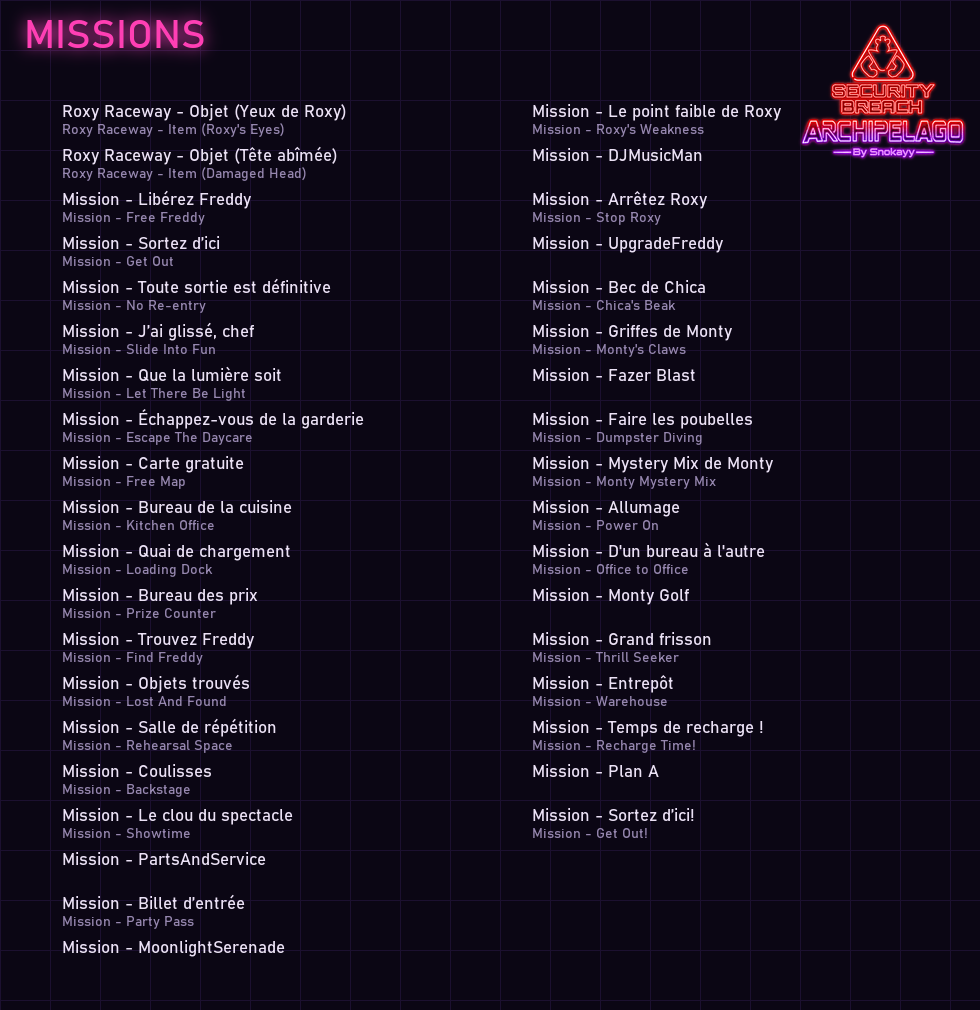
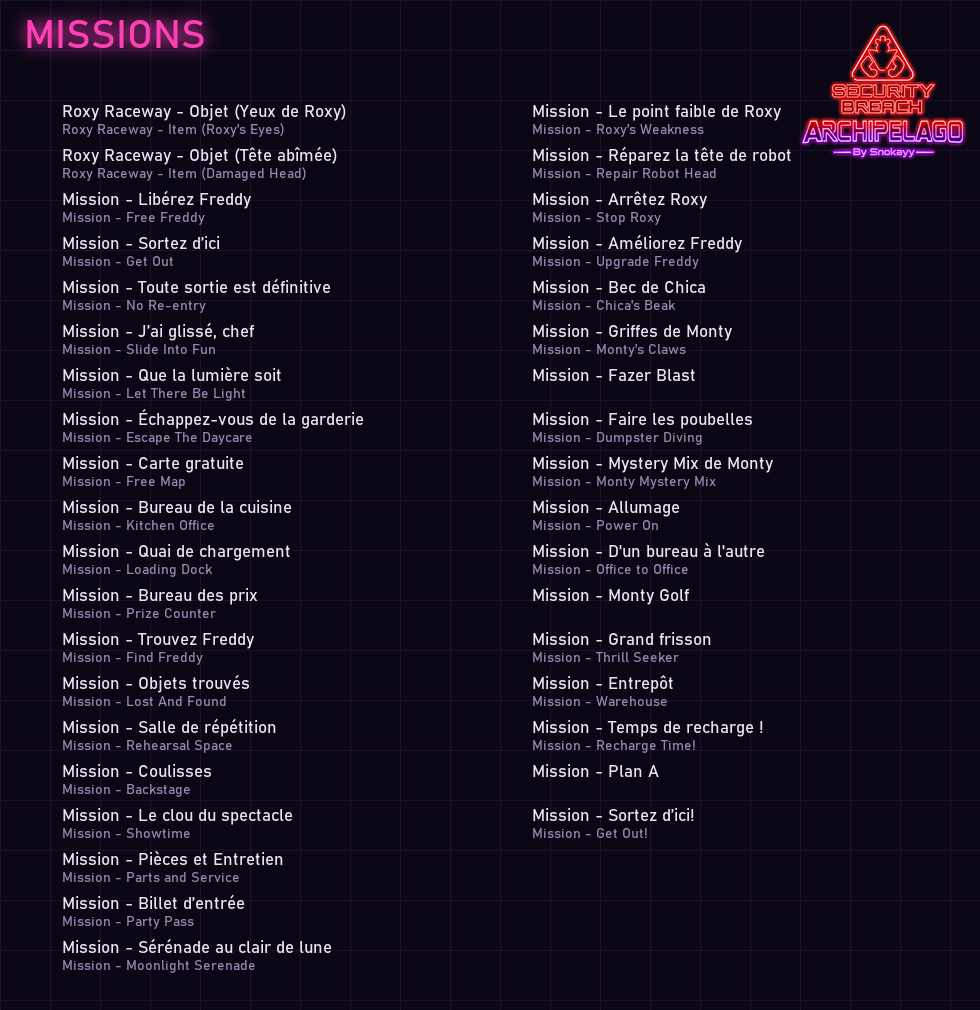
0.9.1.1: mission catch-up, empty AwardItem crash fix, PopTracker names
- Missions finished without CompleteMission (Get Out, Let There Be Light, Escape
  the Daycare) are caught up every 5 s with IsCompletedMission.
- An empty AwardItem (None) from a game script in the endo area no longer
  becomes a check and no longer crashes the game.
- PopTracker pack rebuilt with the in-game mission names.
- Mission probe moved to outils/sondes (test tool, not shipped).

diff --git a/README.md b/README.md
@@ -1,4 +1,4 @@
-# Five Nights at Freddy's: Security Breach Archipelago — alpha 0.9.1.0
+# Five Nights at Freddy's: Security Breach Archipelago — alpha 0.9.1.1
 
 ### 📖 [Setup guide / Guide d'installation](SETUP_GUIDE.md) · ⬇ [Download / Télécharger](../../releases) · 💬 [Discord](https://discord.gg/yqKUMMkWhr)
 
@@ -25,7 +25,8 @@ passes, Freddy's upgrades and more are shuffled with the other players of a mult
   plus, if you want, a number of presents, messages and retro CDs to collect.
 - **Multiworld friendly**: the items that open the start of the Pizzaplex stay close to you (quick start), your
   progression items are balanced towards the start of the other games, missable locations never hold anything
-  important, and Roxy's eyes (which skip to 6 AM) only come after Roxy.
+  important, and Roxy's eyes (which skip to 6 AM) only come after Roxy. The Photo Pass (exit of the starting
+  area) is shuffled between the starting areas of every FNaF SB in the multiworld.
 - **DeathLink**, classic or "jumpscare" mode.
 - In game: an Archipelago welcome card (key **H**) with your goal, a goal card at the end, the game's own pickup
   window showing what you found and for whom, and a lot of FNaF community references (rewritten messages,
@@ -53,7 +54,9 @@ them goes wrong, please tell us on the Discord:
 - the Daycare badge being shuffled in solo games;
 - the Party Pass of Chica's green room and the Monty Mystery Mix staying in your inventory;
 - the Mazercise and bowling tickets being shuffled;
-- the quick start in multiworld games.
+- the quick start in multiworld games;
+- (0.9.1.1) missions that end without the game's usual signal are now caught up within a few seconds;
+- (0.9.1.1) the Photo Pass landing in the starting area of another FNaF SB player.
 
 ## Known limitations (alpha)
 
@@ -99,7 +102,8 @@ tourne sur [UE4SS](https://github.com/UE4SS-RE/RE-UE4SS) et un launcher installe
   ruelle, ou toutes), plus, si tu veux, un nombre de cadeaux, de messages et de CD rétro à ramasser.
 - **Pensé pour le multiworld** : les objets qui ouvrent le début du Pizzaplex restent près de toi (début rapide),
   tes objets de progression sont ramenés vers le début des autres jeux, les emplacements ratables ne contiennent
-  jamais rien d'important, et les yeux de Roxy (qui font passer à 6 h) n'arrivent qu'après Roxy.
+  jamais rien d'important, et les yeux de Roxy (qui font passer à 6 h) n'arrivent qu'après Roxy. Le pass photo
+  (sortie de la zone de départ) est mélangé entre les zones de départ de tous les FNaF SB du multiworld.
 - **DeathLink**, classique ou en mode « screamer ».
 - En jeu : une carte de bienvenue Archipelago (touche **H**) avec ton objectif, une carte de fin au goal, la
   fenêtre de ramassage du jeu qui affiche ce que tu as trouvé et pour qui, et plein de références de la commu
@@ -127,7 +131,10 @@ une vraie partie. Si l'un d'eux pose problème, dites-le sur le Discord :
 - le badge de la garderie mélangé en partie solo ;
 - le billet d'entrée de la loge de Chica et le Mystery Mix de Monty qui restent dans ton inventaire ;
 - les billets du Mazercise et du bowling mélangés ;
-- le début rapide en multiworld.
+- le début rapide en multiworld ;
+- (0.9.1.1) les missions qui se terminent sans le signal habituel du jeu, maintenant rattrapées en quelques
+  secondes ;
+- (0.9.1.1) le pass photo qui tombe dans la zone de départ d'un autre joueur FNaF SB.
 
 ## Limites connues (alpha)
 
